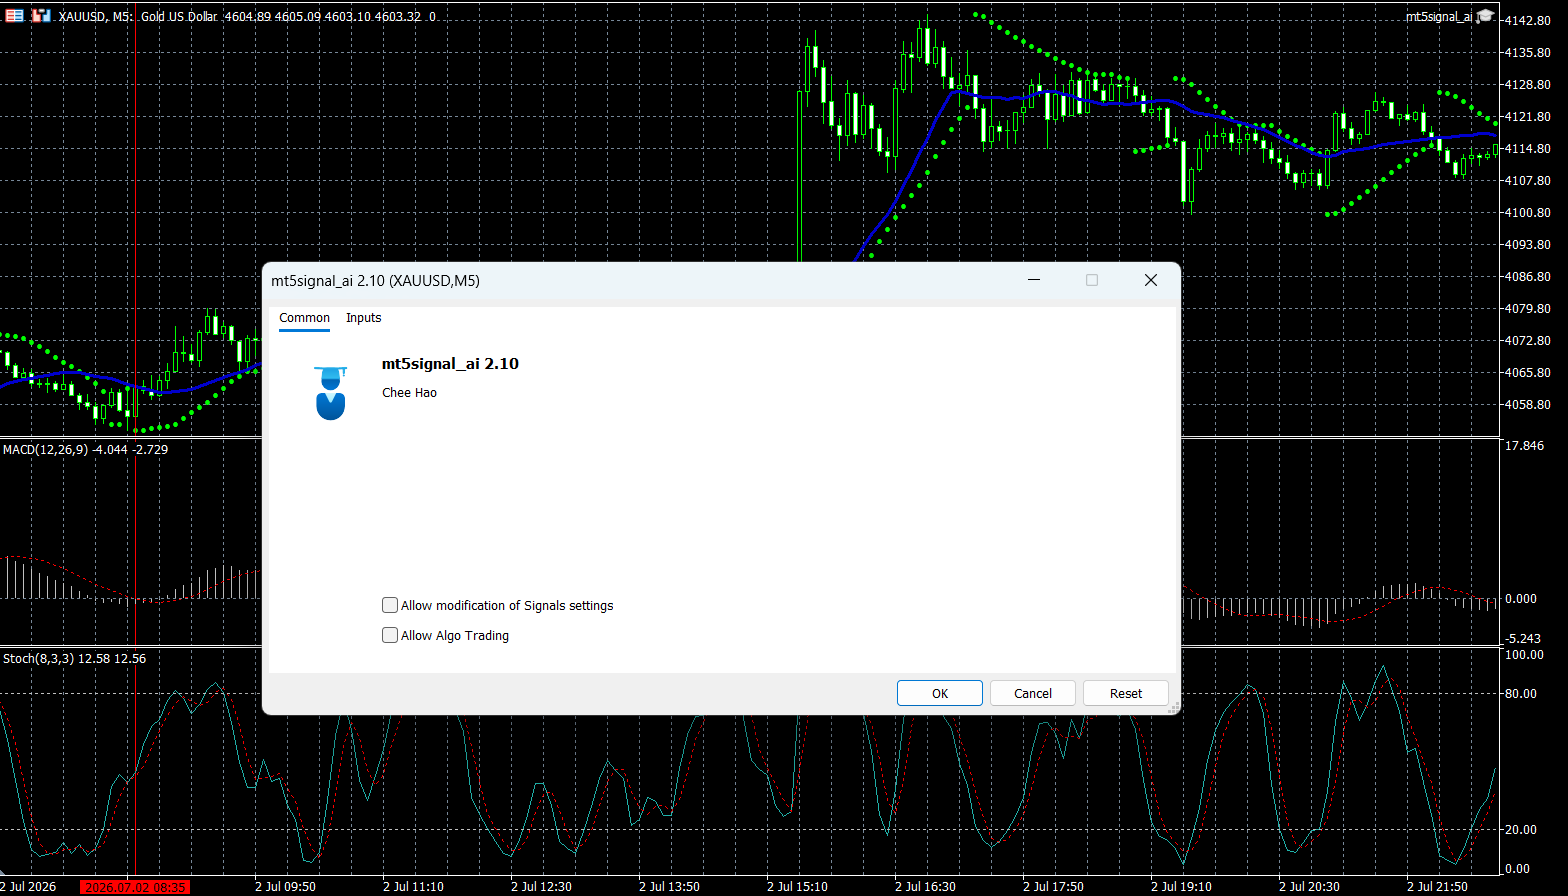
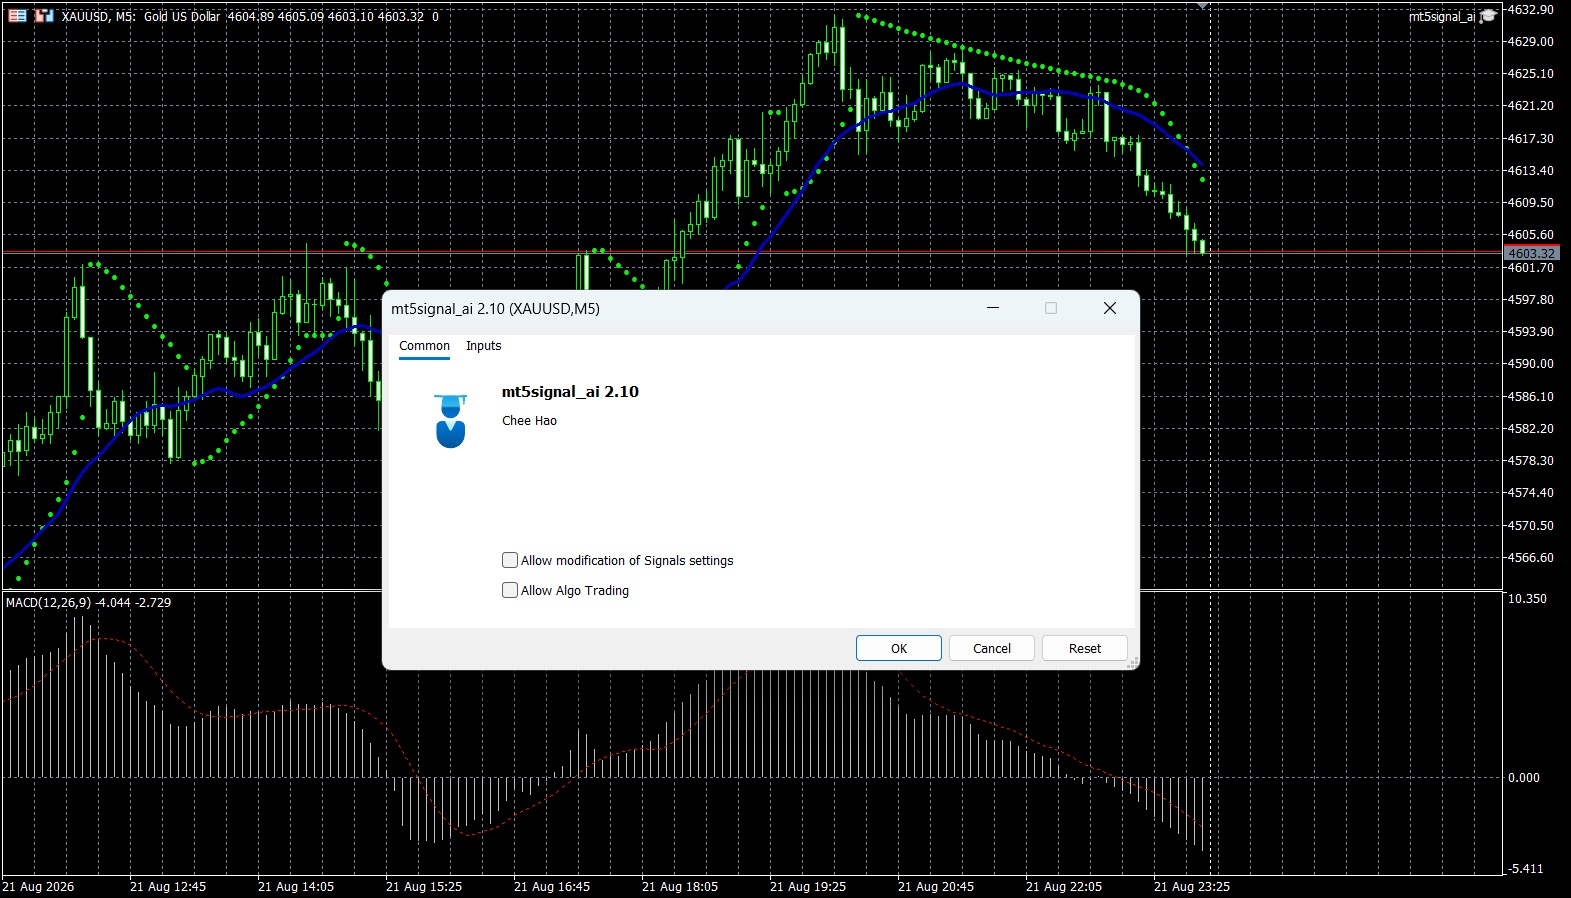
changed image

diff --git a/README.md b/README.md
@@ -10,7 +10,7 @@ An MT5 Expert Advisor that detects XAUUSD (Gold) M5 reversal signals (SAR flip +
 
 ![EA input parameters](images/EAInput.png)
 
-**EA running live on an XAUUSD M5 chart** — MA20 (blue line) and Parabolic SAR (green dots) driving signal detection, with MACD and Stochastic in the lower panels:
+**EA running live on an XAUUSD M5 chart** — MA20 (blue line) and Parabolic SAR (green dots) driving signal detection, with MACD in the lower panel, alongside the EA's `Common` tab (name, author, algo-trading permissions):
 
 ![EA attached to an XAUUSD M5 chart](images/mt5.png)
 
